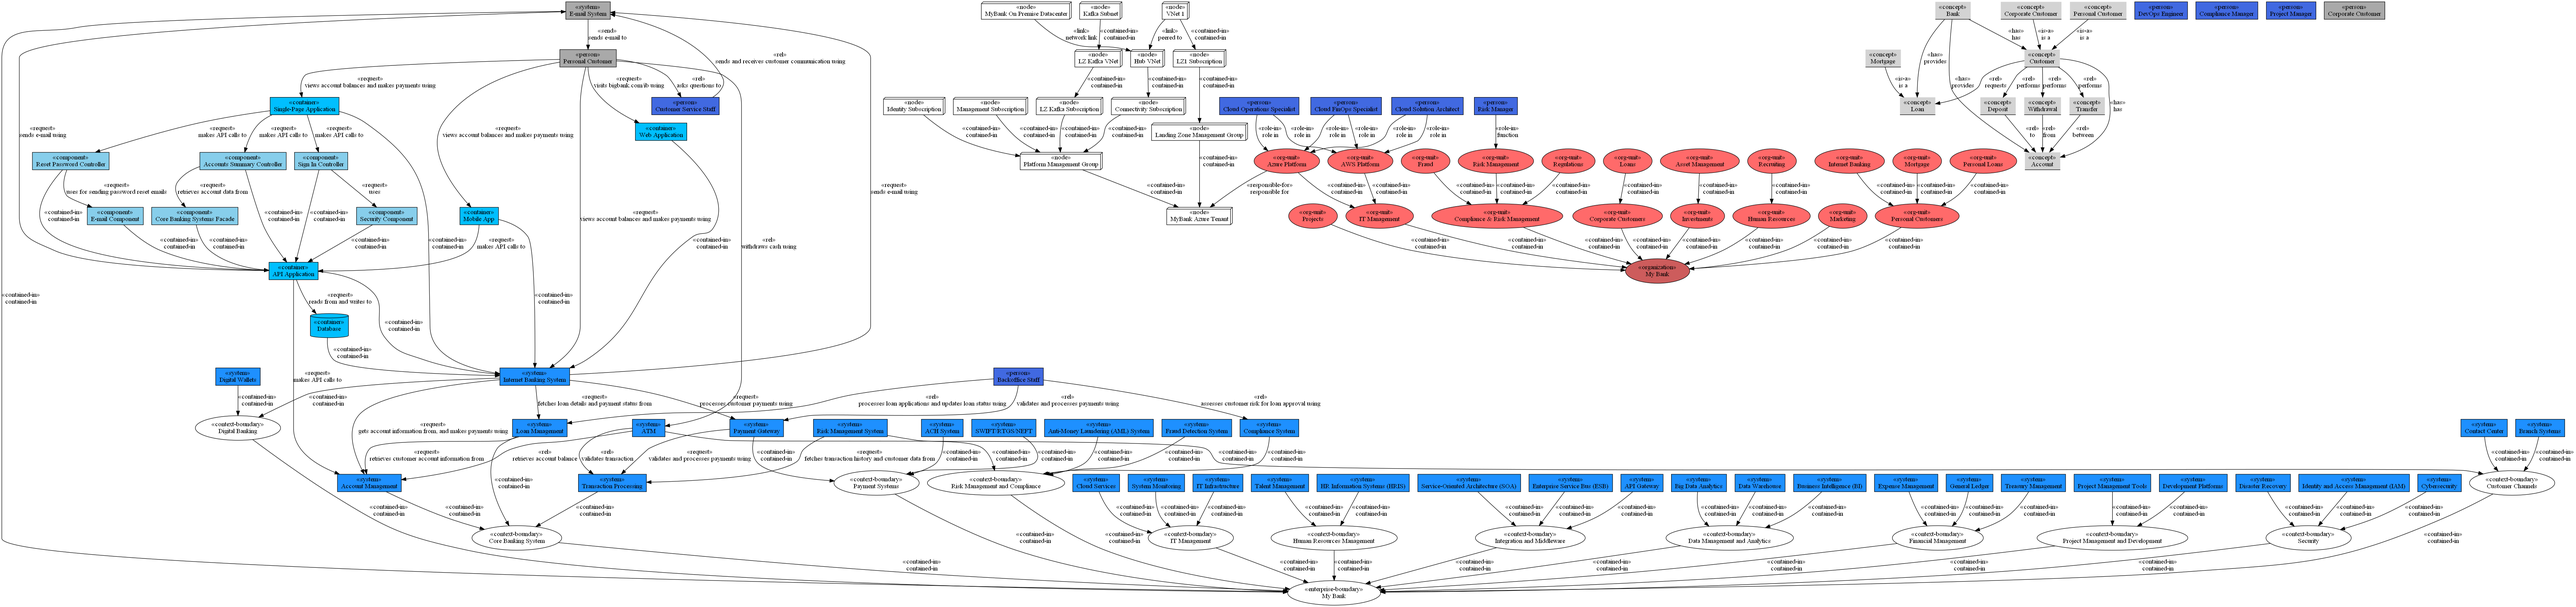
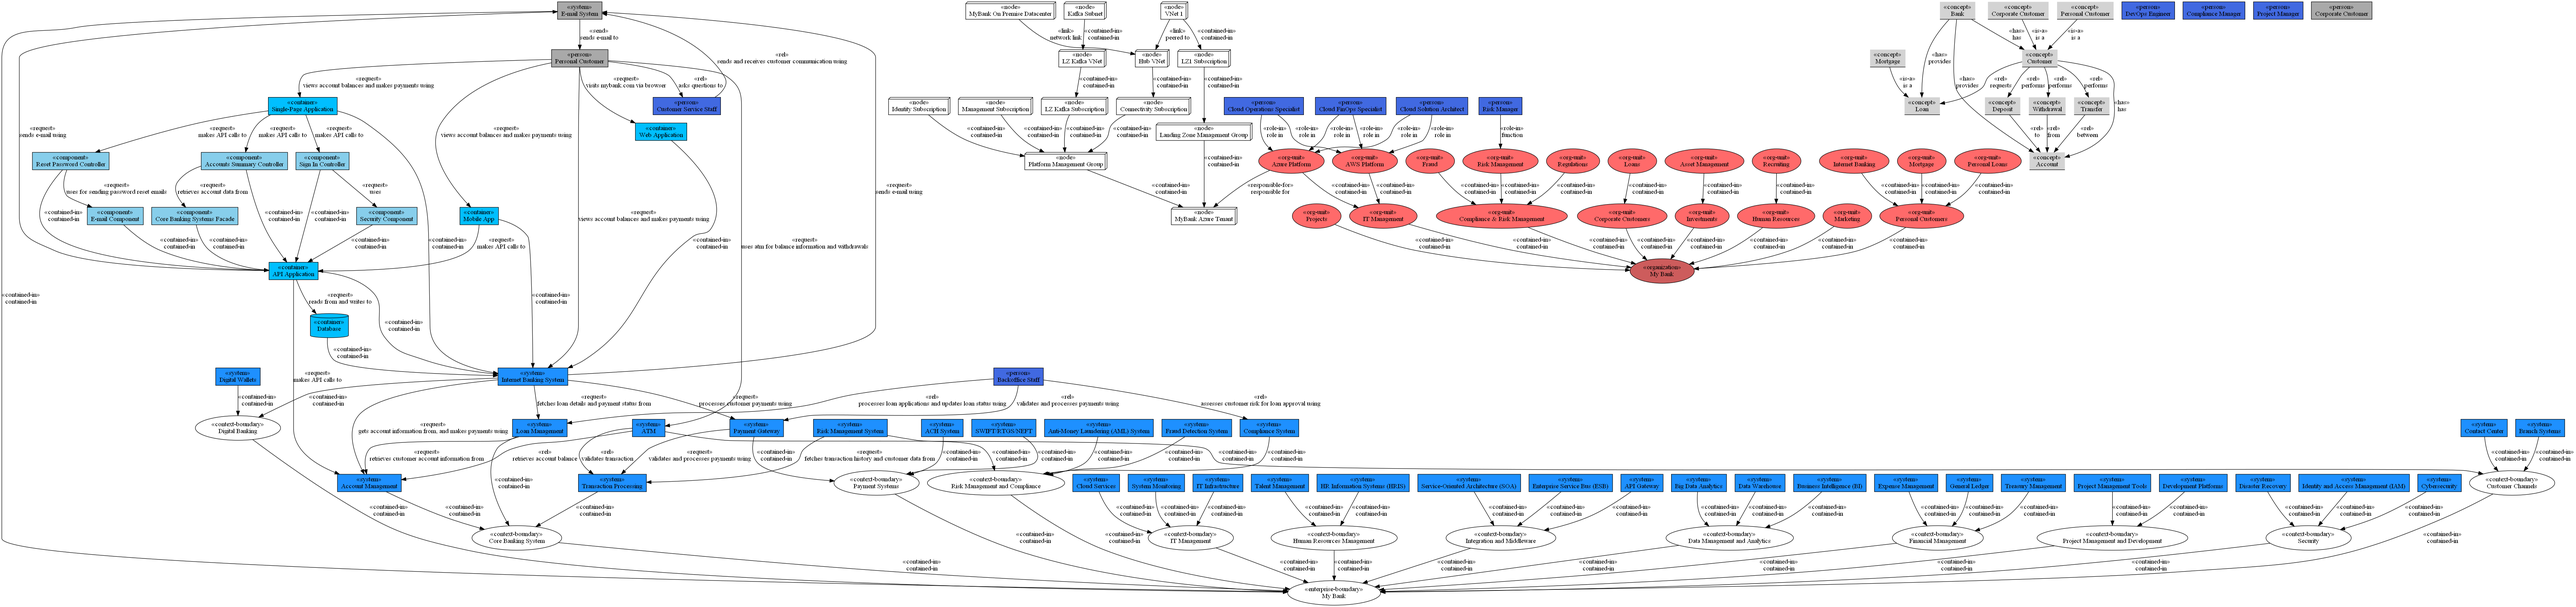
updated model

diff --git a/docs/reports/elements-report.md b/docs/reports/elements-report.md
@@ -58,6 +58,7 @@
  :mybank.digital-banking/mobile-app-calls-api-application | makes API calls to | :request |  |  | Transit/HTTPS | 
  :mybank.financial-management/context-boundary-contained-in-mybank-plc | contained-in | :contained-in |  |  |  | 
  :mybank.payment/context-boundary | Payment Systems | :context-boundary |  | Manages interbank payments, ACH, and SWIFT transactions. |  | 
+ :mybank.user-role/personal-customer-uses-web-app | visits mybank.com via browser | :request |  |  | HTTPS | 
  :mybank.project-management/context-boundary-contained-in-mybank-plc | contained-in | :contained-in |  |  |  | 
  :mybank.compliance/compliance-org-contained-in-my-bank-organization | contained-in | :contained-in |  |  |  | 
  :mybank.financial-management/treasury-management-system-contained-in-context-boundary | contained-in | :contained-in |  |  |  | 
@@ -230,7 +231,6 @@
  :mybank.customer-channels/atm | ATM | :system |  | Allows customers to withdraw cash. | C++, Java | 
  :mybank.customer-channels/contact-center-system | Contact Center | :system |  | Telephony and customer support systems for call centers. | Genesys, Avaya | 
  :mybank.security/cybersecurity-system | Cybersecurity | :system |  | Protects against cyber threats. | Snort, Suricata | 
- :mybank.user-role/personal-customer-uses-web-app | visits bigbank.com/ib using | :request |  |  | HTTPS | 
  :mybank.compliance/risk-management-system-uses-transaction-processing-system | fetches transaction history and customer data from | :request |  |  |  | 
  :mybank.compliance/aml-system-contained-in-context-boundary | contained-in | :contained-in |  |  |  | 
  :mybank.digital-banking/single-page-app-calls-reset-password-controller | makes API calls to | :request |  |  | Transit/HTTPS | 
@@ -257,6 +257,7 @@
  :mybank.project-management/project-management-tools-contained-in-context-boundary | contained-in | :contained-in |  |  |  | 
  :mybank.user-role/personal-customer-asks-customer-service-staff | asks questions to | :rel |  |  |  | 
  :mybank.user-role/personal-customer-uses-single-page-app | views account balances and makes payments using | :request |  |  |  | 
+ :mybank.user-role/personal-customer-uses-atm | uses atm for balance information and withdrawals | :request |  |  |  | 
  :mybank.organization.corporate-customers/loans-org | Loans | :org-unit |  |  |  | 
  :mybank.customer-channels/context-boundary | Customer Channels | :context-boundary |  | Interfaces for customer interaction, including branch systems, ATMs, and call centers. |  | 
  :mybank.compliance/regulations | Regulations | :org-unit |  |  |  | 

diff --git a/docs/mybank/digital-banking/web-app.md b/docs/mybank/digital-banking/web-app.md
@@ -10,7 +10,7 @@ Delivers the static content and the internet banking single-page application.
 #### Service
 | Name | Called From | Technology | Description |
 |---|---|---|---|
-| visits bigbank.com/ib using | [Personal Customer](../../mybank/user-role/personal-customer.md) | HTTPS |  |
+| visits mybank.com via browser | [Personal Customer](../../mybank/user-role/personal-customer.md) | HTTPS |  |
 
 ## Container View
 ![Container View of the Digital Banking Systems](../../mybank/digital-banking/container-view.png)

diff --git a/docs/mybank/customer-channels/atm.md b/docs/mybank/customer-channels/atm.md
@@ -5,6 +5,13 @@ Allows customers to withdraw cash.
 
 ## Interfaces
 
+### Synchronous Interfaces
+
+#### Service
+| Name | Called From | Technology | Description |
+|---|---|---|---|
+| uses atm for balance information and withdrawals | [Personal Customer](../../mybank/user-role/personal-customer.md) |  |  |
+
 ## System Context View
 ![Context View of the Customer Channels Systems](../../mybank/customer-channels/context-view.png)
 
